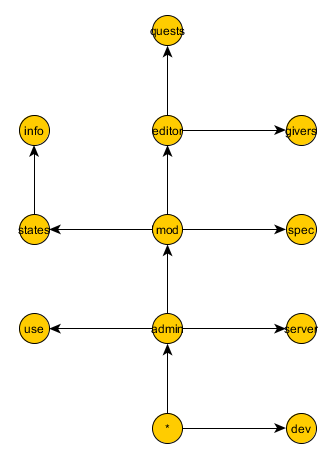
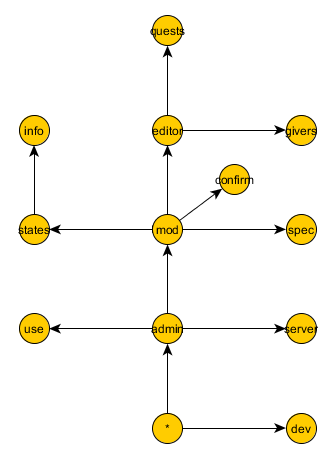
Add seperate permission for toggeling ready status of quests.

Changed region(s): [[0.6269, 0.3362, 0.7463, 0.4279], [0.597, 0.4279, 0.6269, 0.4585], [0.5373, 0.4585, 0.5672, 0.4891]]

diff --git a/src/main/java/de/iani/cubequest/QuestEditor.java b/src/main/java/de/iani/cubequest/QuestEditor.java
@@ -3,7 +3,9 @@ package de.iani.cubequest;
 import de.iani.cubequest.quests.Quest;
 import de.iani.cubequest.util.ChatAndTextUtil;
 import java.util.HashMap;
+import java.util.Iterator;
 import java.util.Map;
+import java.util.Map.Entry;
 import org.bukkit.command.CommandSender;
 
 public class QuestEditor {
@@ -20,7 +22,7 @@ public class QuestEditor {
         if (this.editors.containsValue(quest)) {
             ChatAndTextUtil.sendWarningMessage(sender,
                     "Vorsicht, diese Quest wird bereits von folgenden Spielern bearbeitet:");
-            for (CommandSender other: this.editors.keySet()) {
+            for (CommandSender other : this.editors.keySet()) {
                 if (this.editors.get(other) == quest) {
                     ChatAndTextUtil.sendWarningMessage(sender, other.getName());
                 }
@@ -41,6 +43,26 @@ public class QuestEditor {
     
     public Quest getEditingQuest(CommandSender sender) {
         return this.editors.get(sender);
+    }
+    
+    public void terminateNonPermittedEdits(Quest quest) {
+        if (!quest.isReady()) {
+            return;
+        }
+        
+        Iterator<Entry<CommandSender, Quest>> it = this.editors.entrySet().iterator();
+        while (it.hasNext()) {
+            Entry<CommandSender, Quest> editor = it.next();
+            if (editor.getValue() != quest) {
+                continue;
+            }
+            
+            if (!editor.getKey().hasPermission(CubeQuest.CONFIRM_QUESTS_PERMISSION)) {
+                it.remove();
+                ChatAndTextUtil.sendNormalMessage(editor.getKey(),
+                        "Quest-Bearbeitung geschlossen, da die Quest auf \"fertig\" gesetzt wurde.");
+            }
+        }
     }
     
 }

diff --git a/src/main/java/de/iani/cubequest/commands/ToggleReadyStatusCommand.java b/src/main/java/de/iani/cubequest/commands/ToggleReadyStatusCommand.java
@@ -29,6 +29,11 @@ public class ToggleReadyStatusCommand extends AssistedSubCommand {
                 return "Diese Quest erfüllt noch nicht alle Voraussetzungen.";
             }
             ((Quest) parsed[1]).setReady((Boolean) parsed[2]);
+            
+            if (!(Boolean) parsed[2]) {
+                CubeQuest.getInstance().getQuestEditor()
+                        .terminateNonPermittedEdits((Quest) parsed[1]);
+            }
             return null;
         };
         
@@ -43,7 +48,7 @@ public class ToggleReadyStatusCommand extends AssistedSubCommand {
     
     @Override
     public String getRequiredPermission() {
-        return CubeQuest.EDIT_QUESTS_PERMISSION;
+        return CubeQuest.CONFIRM_QUESTS_PERMISSION;
     }
     
     
@@ -52,10 +57,10 @@ public class ToggleReadyStatusCommand extends AssistedSubCommand {
             ArgsParser args) {
         List<String> result = new ArrayList<>();
         
-        for (String s: AssistedSubCommand.TRUE_STRINGS) {
+        for (String s : AssistedSubCommand.TRUE_STRINGS) {
             result.add(s);
         }
-        for (String s: AssistedSubCommand.FALSE_STRINGS) {
+        for (String s : AssistedSubCommand.FALSE_STRINGS) {
             result.add(s);
         }
         

diff --git a/src/main/java/de/iani/cubequest/commands/EditQuestCommand.java b/src/main/java/de/iani/cubequest/commands/EditQuestCommand.java
@@ -26,6 +26,12 @@ public class EditQuestCommand extends SubCommand {
         }
         
         if (quest.isReady()) {
+            if (!sender.hasPermission(CubeQuest.CONFIRM_QUESTS_PERMISSION)) {
+                ChatAndTextUtil.sendErrorMessage(sender,
+                        "Diese Quest ist bereits auf \"fertig\" gesetzt. Du hast nicht die Berechtigung, sie zu bearbeiten.");
+                return true;
+            }
+            
             ChatAndTextUtil.sendWarningMessage(sender,
                     "Diese Quest ist bereits auf \"fertig\" gesetzt. Sie zu bearbeiten kann unbekannte Nebenwirkungen haben, es wird davon abgeraten.");
         }

diff --git a/src/main/java/de/iani/cubequest/CubeQuest.java b/src/main/java/de/iani/cubequest/CubeQuest.java
@@ -161,6 +161,7 @@ public class CubeQuest extends JavaPlugin {
     public static final String ACCEPT_QUESTS_PERMISSION = "cubequest.use";
     public static final String SEE_PLAYER_INFO_PERMISSION = "cubequest.player_info";
     public static final String EDIT_QUESTS_PERMISSION = "cubequest.edit_quests";
+    public static final String CONFIRM_QUESTS_PERMISSION = "cubequest.confirm_quests";
     public static final String EDIT_QUEST_STATES_PERMISSION = "cubequest.edit_states";
     public static final String EDIT_QUEST_GIVERS_PERMISSION = "cubequest.edit_givers";
     public static final String EDIT_QUEST_SPECIFICATIONS_PERMISSION =
